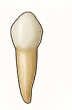
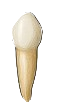
remove Background From Images And Added Dropdowns

diff --git a/src/component/FirstAdultDentistryForm.jsx b/src/component/FirstAdultDentistryForm.jsx
@@ -151,15 +151,14 @@ const FirstAdultDentistryForm = ({
               key={tooth.id}
               className="flex flex-col items-center p-2 rounded shadow-sm"
             >
-              <div className="bg-white p-1 rounded">
+              <div className=" p-1 rounded">
                 <img
                   src={`/adultdentistryTooth/tooth${tooth.id}.png`}
                   alt={tooth.label}
-                  className={`w-20 h-20 md:w-24 md:h-24 mb-2 ${
-                    selectedTeeth[tooth.id]
+                  className={`w-20 h-20 md:w-24 md:h-24 mb-2 ${selectedTeeth[tooth.id]
                       ? "border-2 border-blue-500 rounded"
                       : ""
-                  }`}
+                    }`}
                 />
               </div>
               <span className="text-xs text-center">{tooth.label}</span>
@@ -181,15 +180,14 @@ const FirstAdultDentistryForm = ({
               key={tooth.id}
               className="flex flex-col items-center p-2 rounded shadow-sm"
             >
-              <div className="bg-white p-1 rounded">
+              <div className=" p-1 rounded">
                 <img
                   src={`/adultdentistryTooth/tooth${tooth.id}.png`}
                   alt={tooth.label}
-                  className={`w-20 h-20 md:w-24 md:h-24 mb-2 ${
-                    selectedTeeth[tooth.id]
+                  className={`w-20 h-20 md:w-24 md:h-24 mb-2 ${selectedTeeth[tooth.id]
                       ? "border-2 border-blue-500 rounded"
                       : ""
-                  }`}
+                    }`}
                 />
               </div>
               <span className="text-xs text-center">{tooth.label}</span>
@@ -237,33 +235,40 @@ const FirstAdultDentistryForm = ({
         </div>
         <div>
           <label>Chief Complaint*</label>
-          <input
+          <select
             name="complaint"
             value={formData.complaint}
             onChange={handleChange}
             className="border rounded px-2 py-1 w-full"
             required
-          />
+          >
+            <option value="" disabled>Select a Complaint</option>
+            <option value="Headache">Headache</option>
+            <option value="Cough">Cough</option>
+            <option value="Fever">Fever</option>
+            <option value="Fatigue">Fatigue</option>
+            <option value="Nausea">Nausea</option>
+            {/* Add more options as needed */}
+          </select>
         </div>
+
         <div>
           <label>Examination*</label>
-          <input
+          <select
             name="examination"
             value={formData.examination}
             onChange={handleChange}
             className="border rounded px-2 py-1 w-full"
             required
-          />
-        </div>
-        <div>
-          <label>Advice*</label>
-          <input
-            name="advice"
-            value={formData.advice}
-            onChange={handleChange}
-            className="border rounded px-2 py-1 w-full"
-            required
-          />
+          >
+            <option value="" disabled>Select an Examination</option>
+            <option value="Blood Pressure">Blood Pressure</option>
+            <option value="ECG">ECG</option>
+            <option value="Blood Test">Blood Test</option>
+            <option value="X-Ray">X-Ray</option>
+            <option value="CT Scan">CT Scan</option>
+            {/* Add more options as needed */}
+          </select>
         </div>
       </div>
 

diff --git a/src/component/FirstPediatricDentistry.jsx b/src/component/FirstPediatricDentistry.jsx
@@ -11,7 +11,7 @@ const toothNames = [
     "Upper Left Lateral Incisor  ",
     "Upper Left Canine (Cuspid)",
     "Upper Left First Molar",
-     "Lower Left Second Molar)",
+    "Lower Left Second Molar)",
     "Lower Left First Molar",
     "Lower Left Canine (Cuspid)",
     "Lower Left Lateral Incisor",
@@ -111,7 +111,7 @@ const FirstAdultDentistryForm = ({
                 <div className="grid grid-cols-10 gap-2">
                     {teethData.slice(0, 10).map((tooth) => (
                         <div key={tooth.id} className="flex flex-col items-center p-2 rounded shadow-sm">
-                            <div className="bg-white p-1 rounded">
+                            <div className=" p-1 rounded">
                                 <img
                                     src={`/pediatricTeeth/tooth${tooth.id}.png`}
                                     alt={tooth.label}
@@ -134,7 +134,7 @@ const FirstAdultDentistryForm = ({
                 <div className="grid grid-cols-10 gap-2">
                     {teethData.slice(10).map((tooth) => (
                         <div key={tooth.id} className="flex flex-col items-center p-2 rounded shadow-sm">
-                            <div className="bg-white p-1 rounded">
+                            <div className=" p-1 rounded">
                                 <img
                                     src={`/pediatricTeeth/tooth${tooth.id}.png`}
                                     alt={tooth.label}
@@ -187,23 +187,40 @@ const FirstAdultDentistryForm = ({
                 </div>
                 <div>
                     <label>Chief Complaint*</label>
-                    <input
+                    <select
                         name="complaint"
                         value={formData.complaint}
                         onChange={handleChange}
                         className="border rounded px-2 py-1 w-full"
                         required
-                    />
+                    >
+                        <option value="" disabled>Select a Complaint</option>
+                        <option value="Headache">Headache</option>
+                        <option value="Cough">Cough</option>
+                        <option value="Fever">Fever</option>
+                        <option value="Fatigue">Fatigue</option>
+                        <option value="Nausea">Nausea</option>
+                        {/* Add more options as needed */}
+                    </select>
                 </div>
+
                 <div>
                     <label>Examination*</label>
-                    <input
+                    <select
                         name="examination"
                         value={formData.examination}
                         onChange={handleChange}
                         className="border rounded px-2 py-1 w-full"
                         required
-                    />
+                    >
+                        <option value="" disabled>Select an Examination</option>
+                        <option value="Blood Pressure">Blood Pressure</option>
+                        <option value="ECG">ECG</option>
+                        <option value="Blood Test">Blood Test</option>
+                        <option value="X-Ray">X-Ray</option>
+                        <option value="CT Scan">CT Scan</option>
+                        {/* Add more options as needed */}
+                    </select>
                 </div>
                 <div>
                     <label>Advice*</label>

diff --git a/src/component/PatienHistory.jsx b/src/component/PatienHistory.jsx
@@ -19,10 +19,9 @@ const PatientHistory = () => {
 
   async function fetchPatientHistory() {
     try {
-        const response = await axios.get(
-            `${import.meta.env.VITE_APP_BASE_URL}/appointments/patientHistory`
-          );
-          
+      const response = await axios.get(
+        `${import.meta.env.VITE_APP_BASE_URL}/appointments/patientHistory`
+      );
       const pastPatients = response.data.historyList || [];
       setHistory(pastPatients);
       console.log("Fetched Patient History:", pastPatients);
